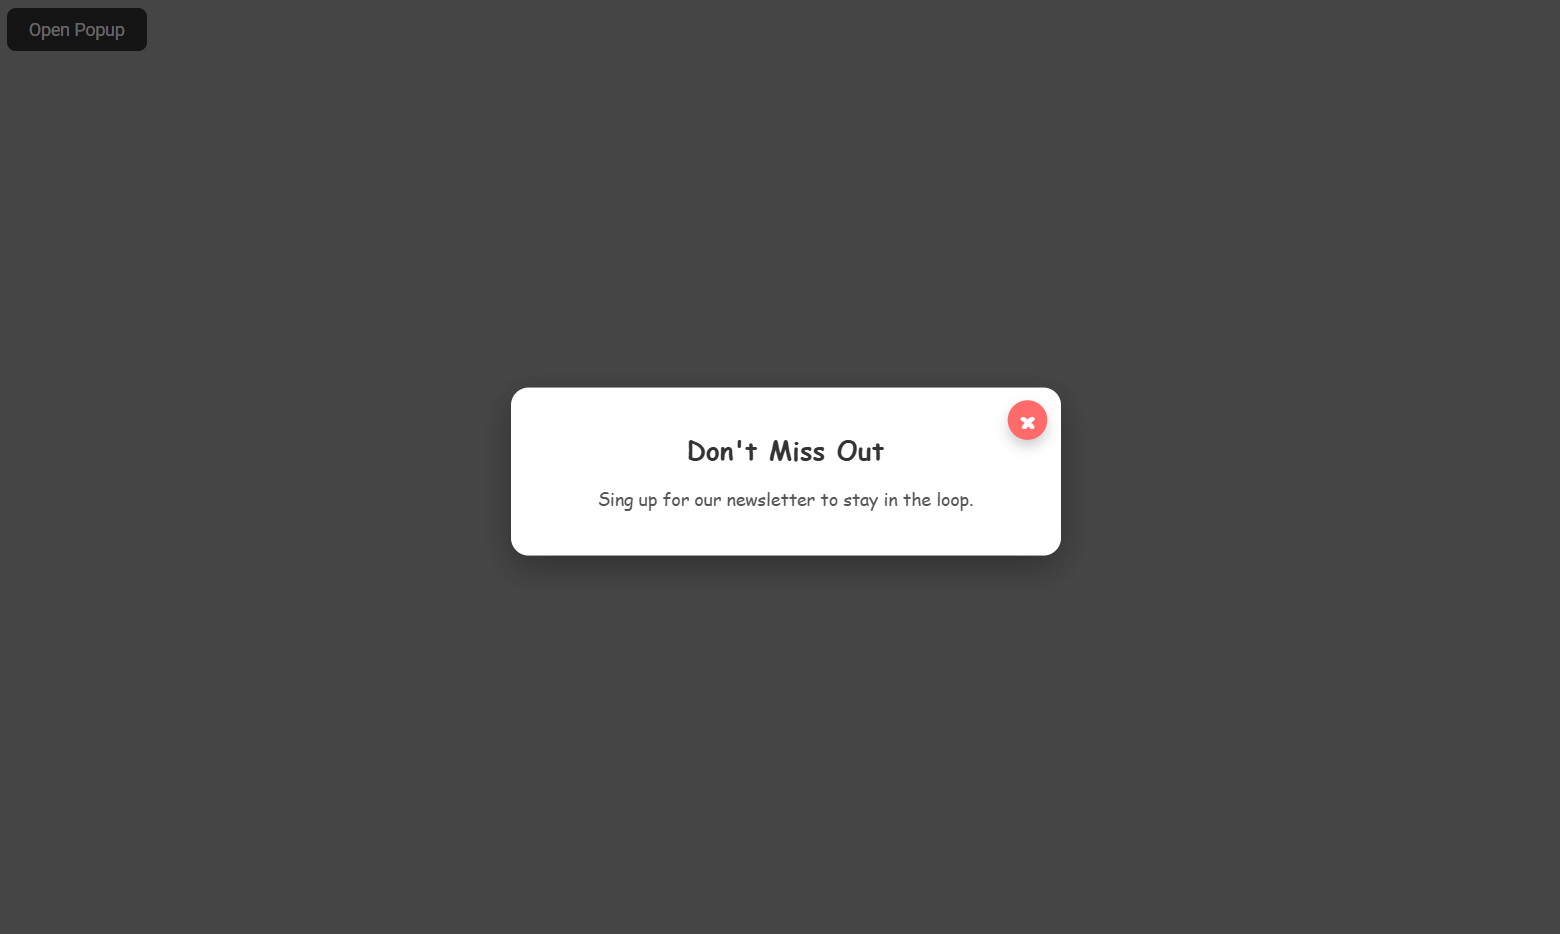
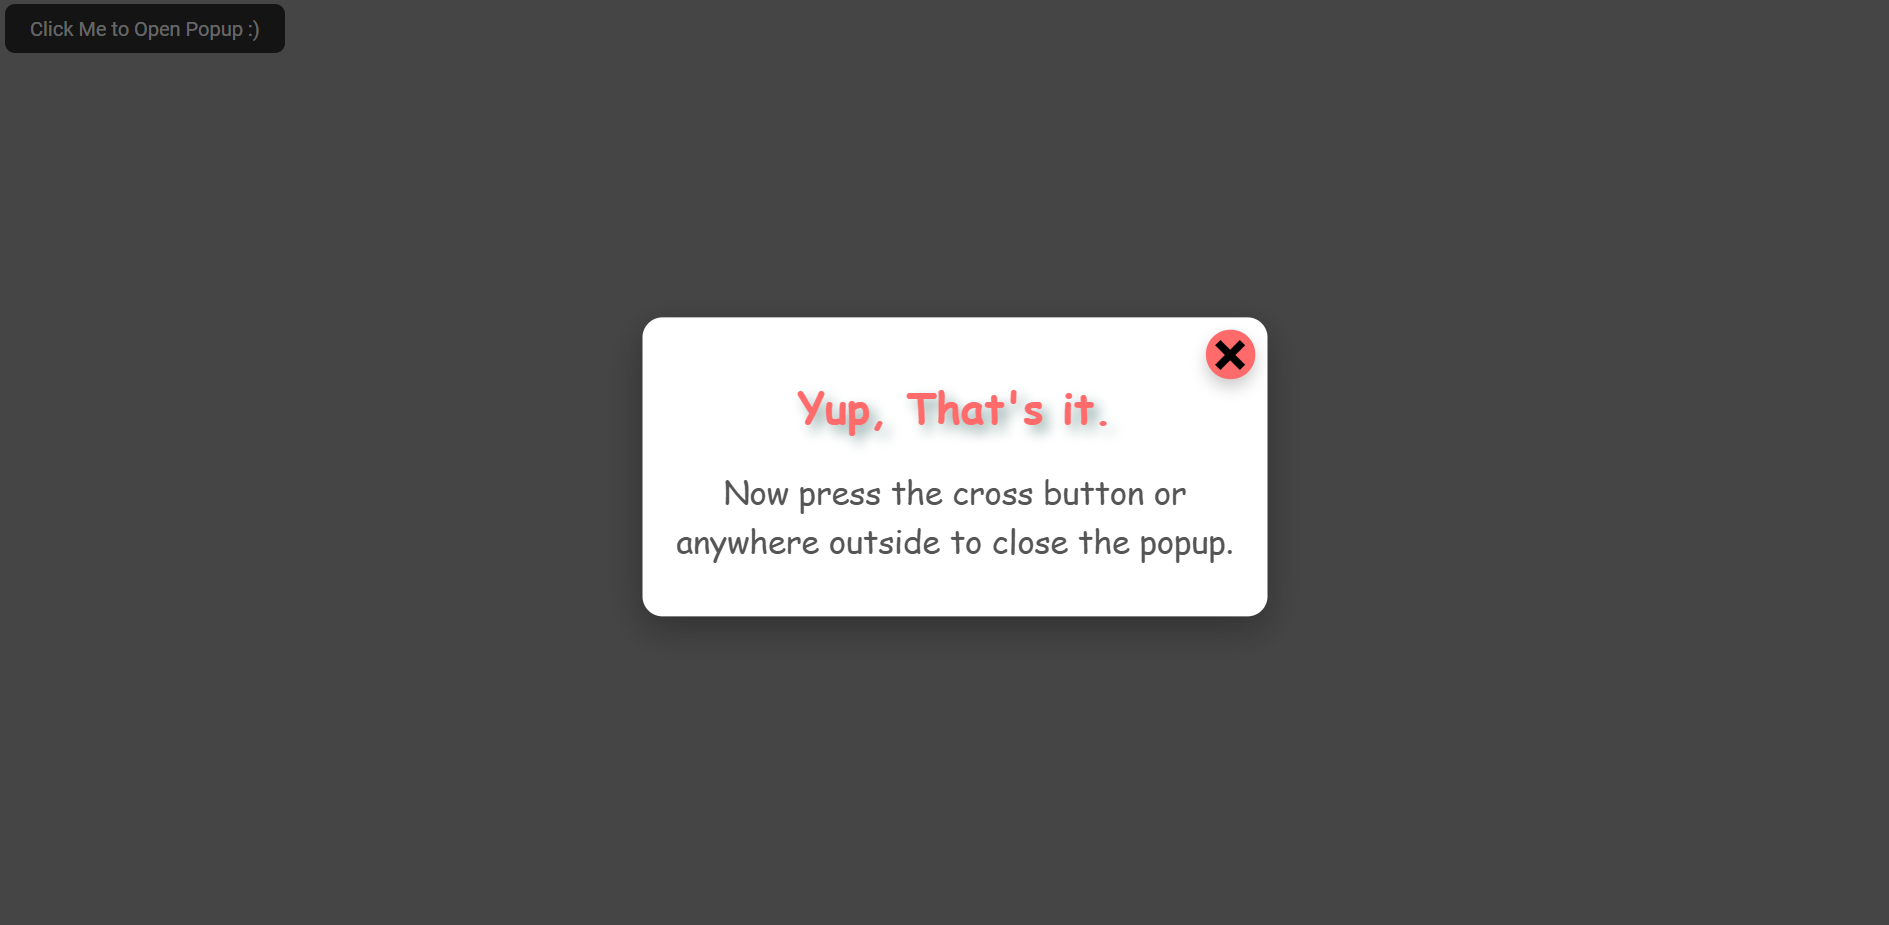
popup updated

Changed region(s): [[0.3077, 0.333, 0.7077, 0.6659], [0.0, 0.0, 0.1538, 0.0605]]

diff --git a/Projects/10_Popup/style.css b/Projects/10_Popup/style.css
@@ -16,13 +16,14 @@ button {
   border-radius: 8px;
   cursor: pointer;
   font-family: 'Roboto', sans-serif;
-  transition: all 0.5s ease-in-out;
+  transition: all 0.3s ease-in-out;
 }
 
 button:hover {
-  background-color: #ff6b6b;
-  color: white;
-  transform: scale(1.05);
+  font-size: 16px;
+  background-color: rgb(255, 107, 107);
+  color: rgb(0, 0, 0);
+  transform: scale(1.02);
   box-shadow: 0 14px 18px rgba(0, 0, 0, 0.3);
 }
 
@@ -35,20 +36,21 @@ button:hover {
   box-shadow: 0 10px 30px rgba(0, 0, 0, 0.3);
   padding: 20px;
   transform: translate(-50%, -50%) scale(0);
-  transition: all 0.5s ease-in-out;
+  transition: all 0.3s ease-in-out;
   top: 0;
   left: 0;
 }
 
 .popup h2 {
-  font-size: 24px;
+  font-size: 34px;
   margin-bottom: 10px;
-  color: #333;
+  color: rgb(255, 107, 107);
+  text-shadow: 5px 5px 10px rgba(13, 70, 63, 0.487);
   text-align: center;
 }
 
 .popup p {
-  font-size: 16px;
+  font-size: 26px;
   color: #555;
   text-align: center;
   margin-bottom: 20px;
@@ -63,6 +65,7 @@ button:hover {
 }
 
 .close-icon {
+  font-family: 'Roboto', sans-serif;
   height: 30px;
   width: 30px;
   margin: 0;
@@ -80,13 +83,14 @@ button:hover {
   justify-content: center;
   align-items: center;
   text-align: center;
-  transition: 0.5s ease-in-out;
+  transition: 0.3s ease-in-out;
 }
 
 .close-icon:hover {
-  background-color: #ff6b6b;
-  color: white;
-  transform: scale(1.2);
+  font-size: 40px;
+  background-color: rgb(255, 107, 107);
+  color: rgb(0, 0, 0);
+  transform: scale(1.3);
 }
 
 .overlay {

diff --git a/Projects/10_Popup/index.html b/Projects/10_Popup/index.html
@@ -13,13 +13,13 @@
 </head>
 
 <body>
-  <button>Open Popup</button>
+  <button>Click Me to Open Popup :)</button>
   <div class="popup-container">
     <div class="overlay"></div>
     <div class="popup">
       <div class="close-icon">&times;</div>
-      <h2>Don't Miss Out</h2>
-      <p>Sing up for our newsletter to stay in the loop.</p>
+      <h2>Yup, That's it.</h2>
+      <p>Now press the cross button or anywhere outside to close the popup.</p>
     </div>
   </div>
 </body>
